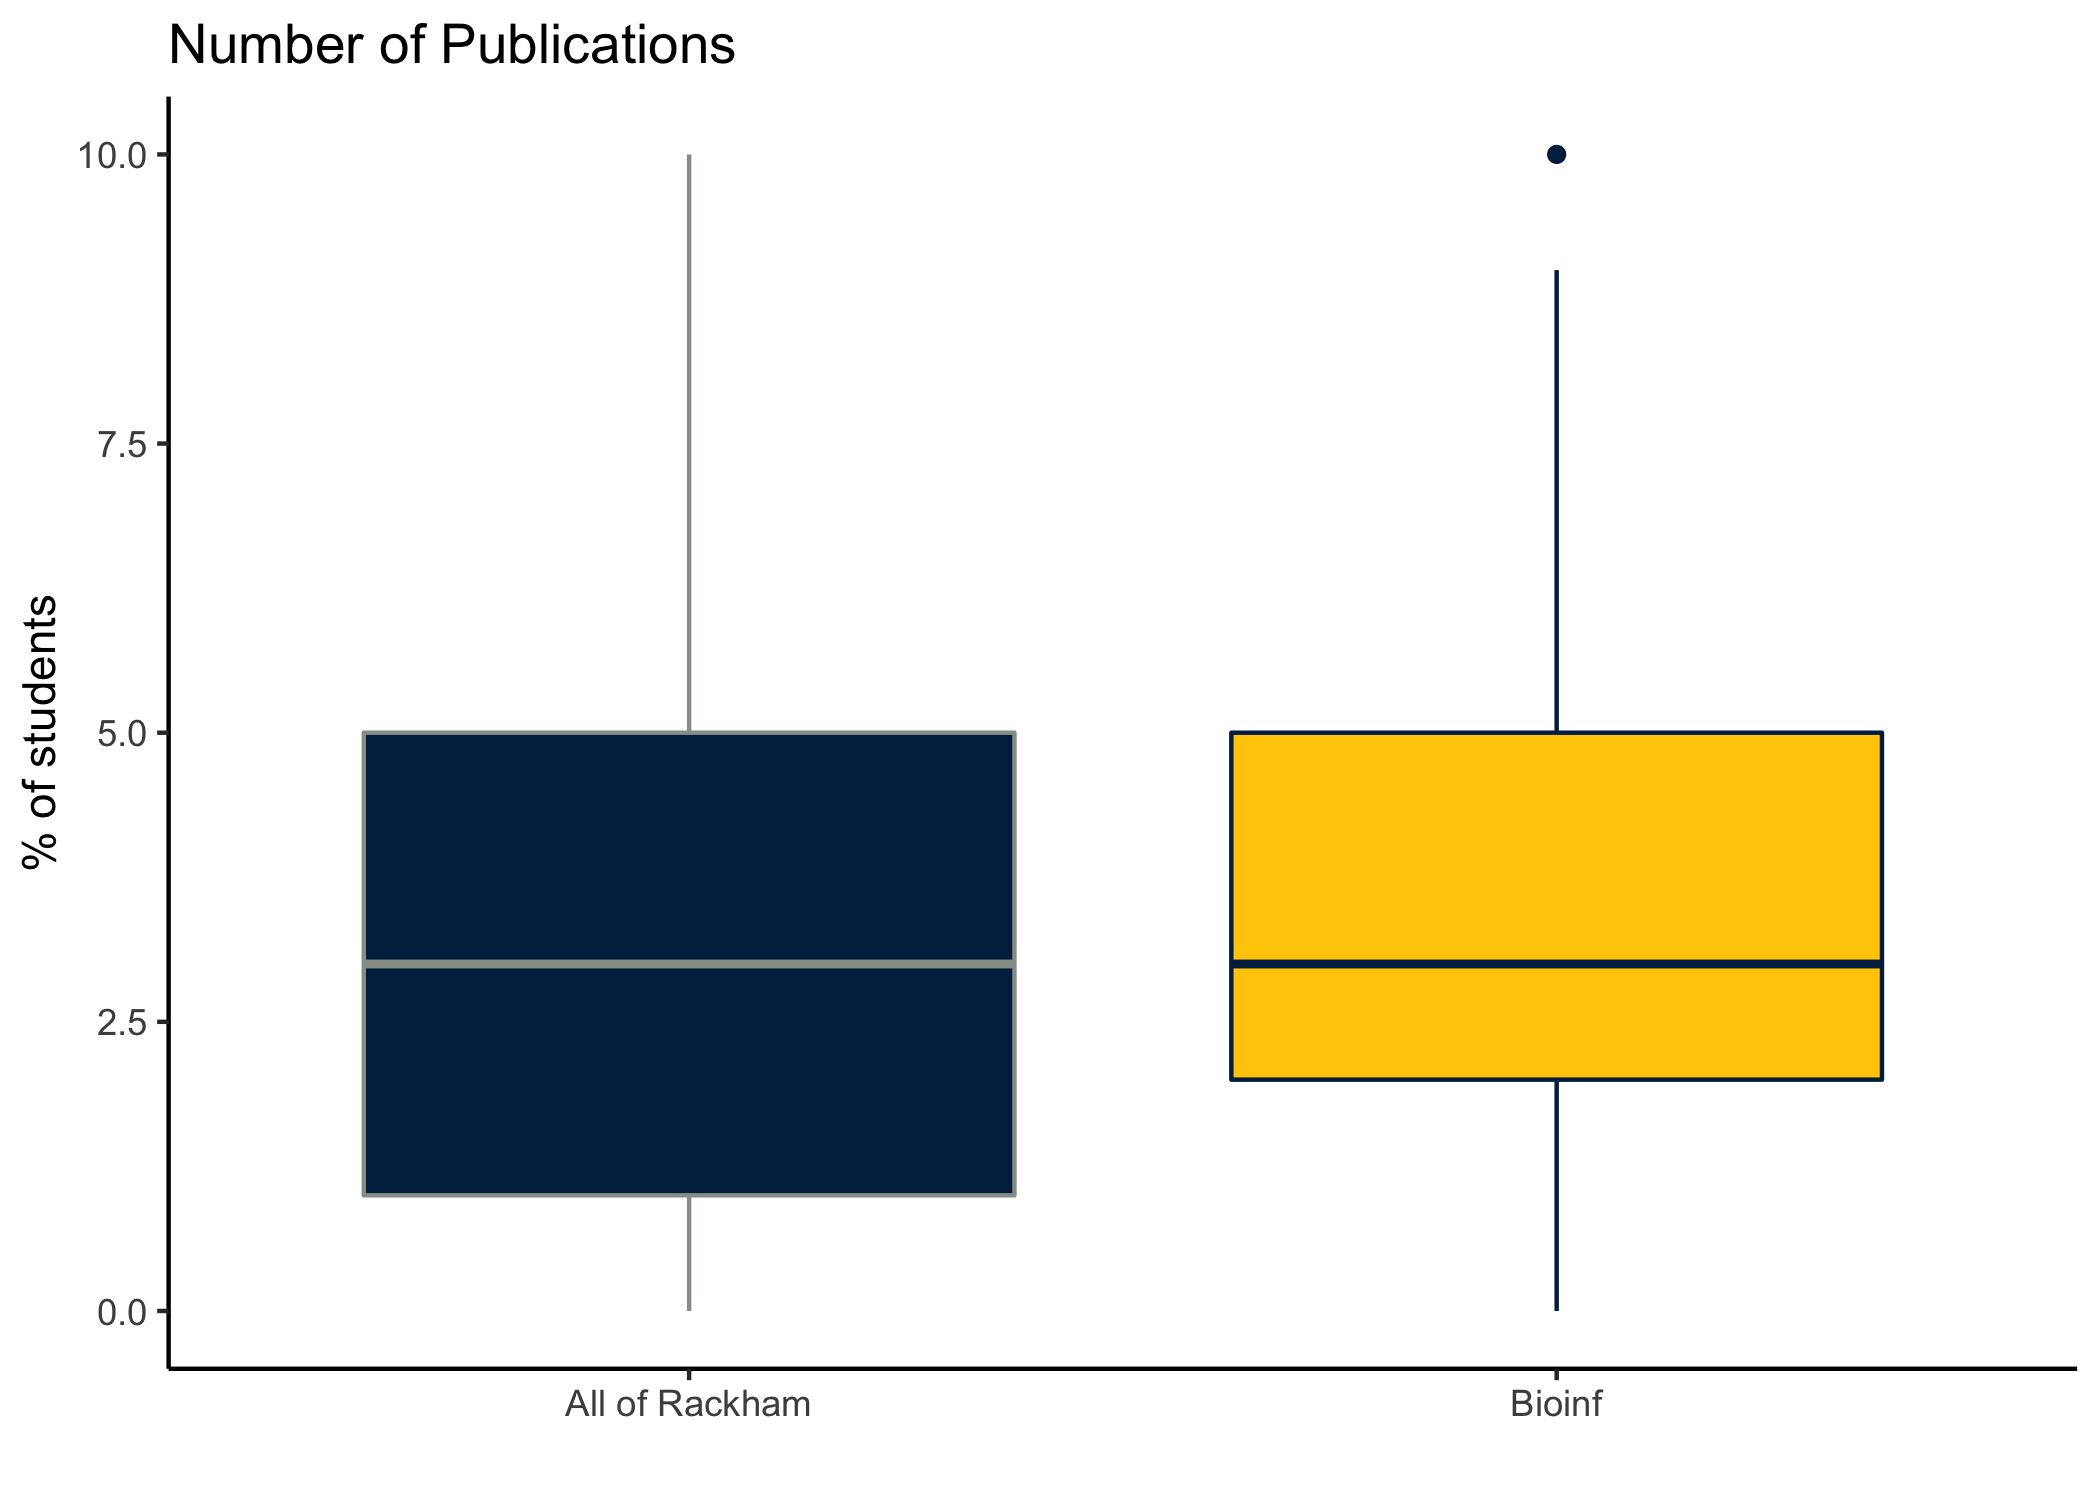
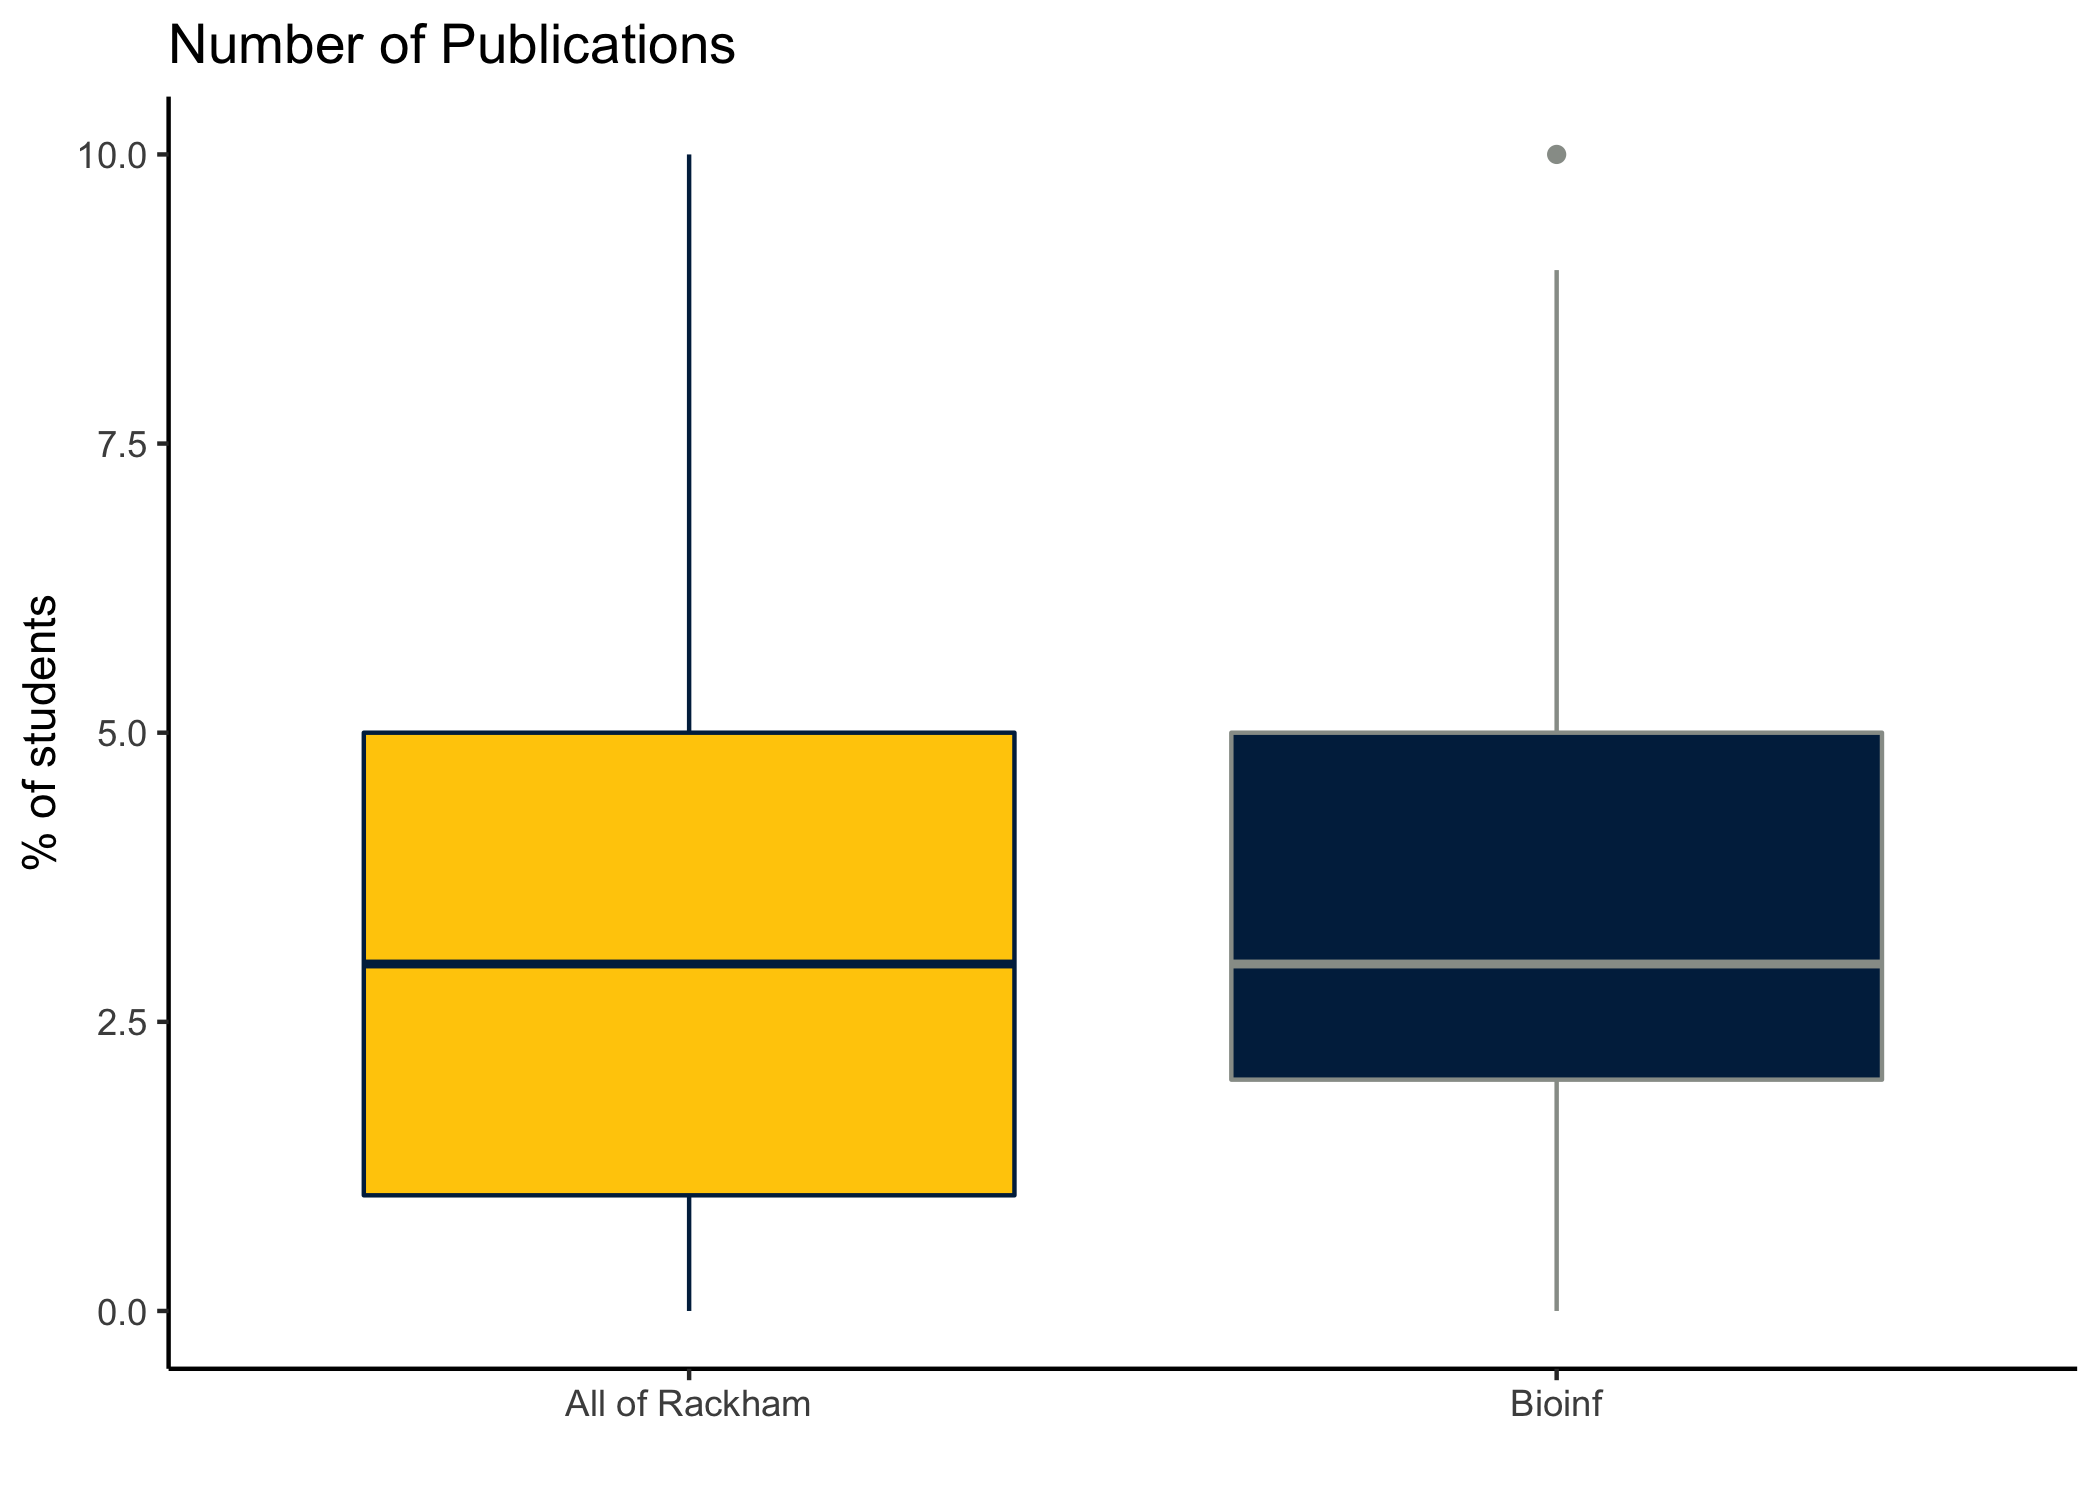
Tweak plots

Changed region(s): [[0.1548, 0.46, 0.4952, 0.828], [0.5881, 0.46, 0.8976, 0.736]]

diff --git a/README.md b/README.md
@@ -3,20 +3,9 @@ Bioinf student pubs vs. all of Rackham
 Kelly Sovacool
 2021-06-09
 
-``` r
-knitr::opts_chunk$set(
-  fig.path = 'figures/',
-  dpi = 300
-)
-```
-
 ## the original figure
 
-``` r
-knitr::include_graphics('figures/doctoral-exit-survey.png')
-```
-
-![](figures/doctoral-exit-survey.png)<!-- -->
+<img src="figures/doctoral-exit-survey.png" width="80%" />
 
 ## prep the data
 
@@ -54,13 +43,13 @@ head(dat)
 ## make new plots
 
 ``` r
-micolors <- c('#00274C', '#FFCB05')
+micolors <- c('#FFCB05', '#00274C')
 add_layers <- function() {
   list(
     scale_fill_manual(values = micolors),
     labs(y = "% of students", x = "", title = "Number of Publications"),
     theme_classic(),
-    theme(legend.position = c(0.9, 0.9))
+    theme(legend.position = c(0.8, 0.9))
   )
 }
 ```
@@ -73,7 +62,7 @@ dat %>%
   scale_x_continuous(breaks = 0:10, labels = c(0:9, "10+"))
 ```
 
-![](figures/histogram-1.png)<!-- -->
+<img src="figures/histogram-1.png" width="80%" />
 
 ``` r
 dat %>% 
@@ -81,10 +70,10 @@ dat %>%
              fill = Program, color = Program)) +
   geom_boxplot() +
   add_layers() +
-  scale_color_manual(values = c('#989C97', '#00274C')) +
+  scale_color_manual(values = c('#00274C', '#989C97')) +
   theme(legend.position = 'none')
 ```
 
     ## Warning in rq.fit.br(wx, wy, tau = tau, ...): Solution may be nonunique
 
-![](figures/boxplot-1.png)<!-- -->
+<img src="figures/boxplot-1.png" width="80%" />
